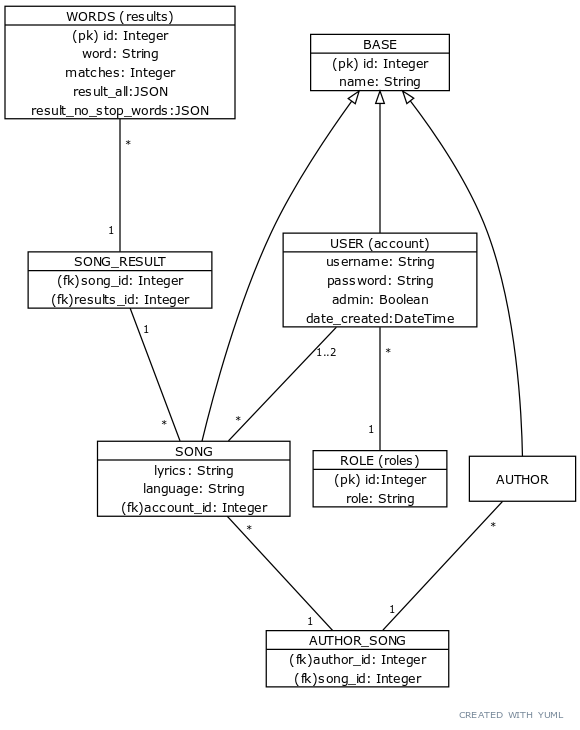
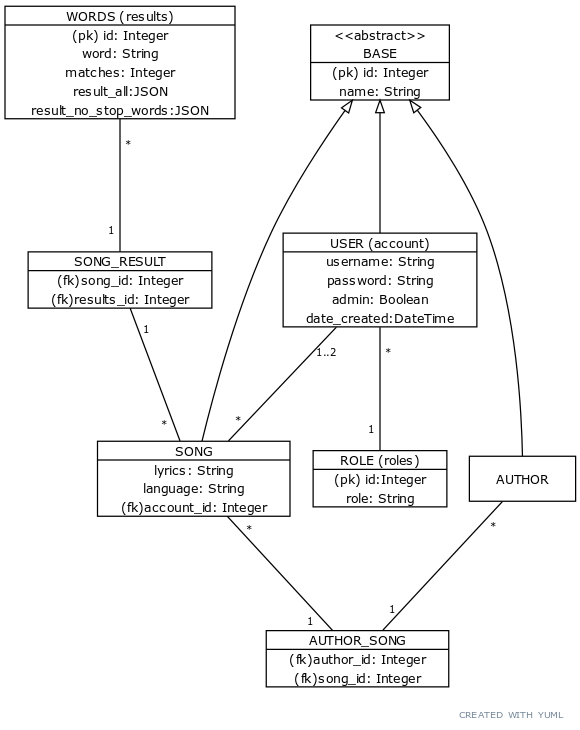
minor fixes, cleanup, and documents updt

Changed region(s): [[0.5276, 0.0301, 0.7759, 0.1507]]

diff --git a/application/templates/info.html b/application/templates/info.html
@@ -13,7 +13,7 @@
 	With statistical textual analysis one can understand better author's
 	character, intentions, idiolect, mood, and many other factors that may help to construct a fuller view of the area of study. Or it can be used for sosiolingvistical study of social media messages to analyze ethnicity, religion, status, gender, level of education, age, etc. Words that we speak or write down tell one thing about us. But the explicitly written textual content doesn't always reveal everything - sometimes we may infer more from reading between the lines, or from statistical analysis.<br><br>
 
-	For example, it has long been a mystery whether famous Old English epic poem <em>Beowulf</em> was composed by a single author or if it was stiched together from many textual sources [<a href="https://www.theguardian.com/books/2019/apr/08/beowulf-old-english-poem-work-one-author-research-suggests" data-toggle="tooltip" data-placement="top" title="Beowulf the work of single author, research suggests">Guardian</a>][<a href="https://news.harvard.edu/gazette/story/2019/04/did-beowulf-have-one-author-researchers-find-clues-in-stylometry/" data-toggle="tooltip" data-placement="top" title="Breaking down 'Beowulf'">The Harvard Gazette</a>].<br><br>
+	For example, it has long been a mystery whether famous Old English epic poem <em>Beowulf</em> was composed by a single author or if it was stiched together from many textual sources [<a href="https://www.theguardian.com/books/2019/apr/08/beowulf-old-english-poem-work-one-author-research-suggests" data-toggle="tooltip" data-placement="top" title="Beowulf the work of single author, research suggests">Guardian</a>][<a href="https://news.harvard.edu/gazette/story/2019/04/did-beowulf-have-one-author-researchers-find-clues-in-stylometry/" data-toggle="tooltip" data-placement="top" title="Breaking down 'Beowulf'">The Harvard Gazette</a>].
 	
 	Recently an academic research team analyzed Beowulf statistically with a computer program and came to a conclusion that Beowulf was written by one author [<a href="https://doi.org/10.1038/s41562-019-0570-1" data-toggle="tooltip" data-placement="top" title="Large-scale quantitative profiling of the Old English verse tradition">Nature</a>]. The program is written in Python and is freely and publicly available at <a href="https://github.com/qcrit" data-toggle="tooltip" data-placement="top" title="Quantitative Criticism Lab">GitHub</a>.<br><br>
 	

diff --git a/application/templates/layout.html b/application/templates/layout.html
@@ -177,7 +177,7 @@
       <div class="container-fluid">
         <form action="/defaults/add" method="POST">
 	      <div>
-            <button class="btn btn-sm btn-primary" type="submit" style="float: right; margin-left: 20px" name="add" id="add" value="add">Add default songs</button>
+            <button class="btn btn-sm btn-primary" type="submit" style="float: right; margin-left: 20px; margin-right: 50px; margin-bottom: 30px;" name="add" id="add" value="add">Add default songs</button>
           </div>
         </form>
       </div>
@@ -187,7 +187,7 @@
         <form action="/defaults/remove" method="POST">
       
 	      <div>
-            <button class="btn btn-sm btn-primary" type="submit" style="float: right; margin-left: 20px" name="remove" id="remove" value="remove">Remove default songs</button>
+            <button class="btn btn-sm btn-primary" type="submit" style="float: right; margin-left: 20px; margin-bottom: 30px;" name="remove" id="remove" value="remove">Remove default songs</button>
           </div>
         </form>
       </div>
@@ -196,7 +196,7 @@
       
       <div class="container-fluid" >
         <form action="/admin" method="POST">
-          <button class="btn btn-sm btn-primary" type="submit" style="float: left;" name="listusers" id="listusers" value="listusers">List users</button>
+          <button class="btn btn-sm btn-primary" type="submit" style="float: left; margin-left: 50px; margin-bottom: 30px;" name="listusers" id="listusers" value="listusers">List users</button>
         </form>
       </div><br><br>
     {% endif %}

diff --git a/application/templates/admin/dashboard.html b/application/templates/admin/dashboard.html
@@ -60,9 +60,11 @@
             <input type="hidden" name="user_id" value="{{ user.id }}"></input>
             <div class="col-auto">
               {% if user.role == "ADMIN" %}
-              <button class="btn btn-sm btn-secondary" type="submit" name="userate" style="background-color: red; width:60px;" value="userate">Admin</button>
+              <button class="btn btn-sm btn-secondary" type="submit" name="userate" style="background-color: red; width:60px;" value="userate">ADMIN</button>
+              {% elif user.role == "GUEST" %}
+              <button class="btn btn-sm btn-secondary" type="submit" name="adminate" style="width:60px;" value="adminate">GUEST</button>
               {% else %}
-              <button class="btn btn-sm btn-secondary" type="submit" name="adminate" style="width:60px;" value="adminate">User</button>
+              <button class="btn btn-sm btn-secondary" type="submit" name="adminate" style="width:60px;" value="adminate">USER</button>
               {% endif %}
             </div>
           </form>

diff --git a/application/admin/views.py b/application/admin/views.py
@@ -78,9 +78,11 @@ def user_adminate(user_id):
 
 	form = CreateForm(request.form)
 	if request.form.get("userate") == "userate":
-		user_qry.first().role = "USER"
+		if user_qry.first().role not in ["ADMIN","GUEST"]:
+			user_qry.first().role = "USER"
 	elif request.form.get("adminate") == "adminate":
-		user_qry.first().role = "ADMIN"
+		if user_qry.first().role not in ["ADMIN","GUEST"]:
+			user_qry.first().role = "ADMIN"
 
 	if request.method == "POST":
 		try:

diff --git a/documentation/kayttoohje.md b/documentation/kayttoohje.md
@@ -1,41 +1,81 @@
 # Käyttöohje
 
-Kun käyttäjä on kirjautunut sisään avautuu kotinäkymä, jossa näkyvät tilastot laulutietokannasta (kielet, laulut, lauluntekijät) ja sanahakutuloksista (top 5). Jälkimmäinen ei näy pääkäyttäjälle. Näkymään pääsee aina takaisin yläpalkin vasemmassa reunassa olevasta kotinappulasta (*LyrFreq HOME*).
+Kun käyttäjä on kirjautunut sisään avautuu kotinäkymä, jossa näkyvät tilastot laulutietokannasta (kielet, laulut, lauluntekijät) ja sanahakutuloksista (top 5).
+
+<img src="https://user-images.githubusercontent.com/46410240/83642637-c3c09d80-a5b7-11ea-8ca1-abd3c83971d0.png" alt="home view">
+
+Jälkimmäinen ei näy pääkäyttäjälle. Näkymään pääsee aina takaisin yläpalkin vasemmassa reunassa olevasta kotinappulasta (*LyrFreq HOME*). Yläpalkin oikeassa reunassa on valkoinen kysymysmerkki, jota klikkaamalla aukeaa info-sivu. Infosta löytyy taustaa ja perustelua sana-analyysiprojektille.
+
+Muuten sovelluksen pitäisi olla melko intuitiivinen. Seuraamalla harvojen nappien tekstejä tai otsikoita tietää mitä voi tehdä.
+
+<img src="https://user-images.githubusercontent.com/46410240/83639232-1186d700-a5b3-11ea-904e-2cf30970b7ad.png" alt="banner">
 
 ## Käyttäjäroolit
 
-Sovelluksessa on pysyvä yläpalkki, josta löytyvät sisään- ja uloskirjautumislinkki sekä rekisteröitymislinkki. Valmiita oletuskäyttäjiä ovat *admin* täysillä oikeuksilla (toisten käyttäjien poisto ja roolin vaihdot) sekä *guest* rajoitetuilla (user) oikeuksilla.
+Sovelluksessa on pysyvä yläpalkki, josta löytyvät sisään- ja uloskirjautumislinkki sekä rekisteröitymislinkki. Käyttäjärooleja on kolme: *ADMIN*, *USER* ja *GUEST*. Valmiita oletuskäyttäjiä ovat *admin* täysillä *ADMIN*-oikeuksilla (toisten käyttäjien poisto ja roolin vaihdot) sekä *guest* rajoitetuilla *GUEST*-oikeuksilla.
 
 Käyttäjä voivat myös luoda oman (user) tilinsä salasanoineen.
 
 Kukin käyttäjä näkee kaikki oletuslaulut sekä itse lisäämänsä laulut. Muiden lisäämiä lauluja ei nähdä. Vain admin voi lisätä yleisesti saatavilla olevia lauluja.
 
-Admin-rooli voi oletuslaulujen lisäämisen ja poistamisen lisäksi tarkastella rekisteröityneitä käyttäjiä sekä poistaa niitä. Admin voi myös asettaa haluamalleen käyttäjälle admin-roolin tai palauttaa sen takaisin peruskäyttäjäksi. Tällä hetkellä oletustunnukset salasanoineen on kovakoodattu helpottamaan asioita esim. katselmuksen suhteen. Loppupalautukseen mennessä kirjautumistiedot poistetaan koodista.
+Admin-rooli voi oletuslaulujen lisäämisen ja poistamisen lisäksi tarkastella rekisteröityneitä käyttäjiä sekä poistaa niitä. Admin voi myös asettaa haluamalleen käyttäjälle admin-roolin tai palauttaa sen takaisin peruskäyttäjäksi.
 
-Ohjelmaan voi siis rekisteröityä luomalla omat tunnukset, mutta helpoin tapa kokeilla sovellusta on kirjautua yhtä nappia painamalla vieras-tilille (guest) jolla on peruskäyttäjän oikeudet.
+Ohjelmaan voi siis rekisteröityä luomalla omat tunnukset, mutta helpoin tapa kokeilla sovellusta on kirjautua yhtä nappia painamalla vieras-tilille (guest) jolla on rajoitetut peruskäyttäjän oikeudet.
+
+<img src="https://user-images.githubusercontent.com/46410240/83640295-9d4d3300-a5b4-11ea-8822-0ec25e4e008a.png" alt="login and create account">
 
 ## Laulut
 
 Yläpalkissa on aluksi estetyt linkit laulujen listaamiseen ja uuden laulun lisäämiseen. Kirjautumisen jälkeen nämä linkit avautuvat toiminnallisiksi.
 
-Laulujen listaus avaa näkymän, jossa laulut ovat listana id:n ja nimen mukaan. Listan yllä on napit listan uudelleenjärjestämiseen aakkosittain nousevasti tai laskeutuvasti sekä ensin kielittäin ja kielen sisällä aakkostetusti.
+Laulujen listaus avaa näkymän, jossa laulut ovat listana id:n ja nimen mukaan.
+
+<img src="https://user-images.githubusercontent.com/46410240/83645729-7c3c1080-a5bb-11ea-9419-b09ab4a4c712.png" alt="song list">
+
+Listan yllä on napit listan uudelleenjärjestämiseen aakkosittain nousevasti tai laskeutuvasti sekä ensin kielittäin ja kielen sisällä aakkostetusti.
 
 Kunkin laulun rivin perässä on kolme värillistä nappia, joista sininen näyttää erikseen ko. laulun lyriikan. Näkymästä pääsee takaisin *Back*-nappulasta. Keltainen nappi avaa ko. laulun editointitilaan, jossa voi muokata laulun nimeä, tekijöitä tai lyriikkatekstiä. Näkymässä voi joko palata takaisin tekemättä muutoksia (*Back*) tai asettaa muutos napista *Submit*.
 
 Punaisesta napista laulu poistetaan tietokannasta.
 
+<img src="https://user-images.githubusercontent.com/46410240/83646803-d689a100-a5bc-11ea-839f-0db63d1e73e2.png" alt="view and edit song">
+
 ## Sanafrekvenssit
 
 Sovelluksessa voi tehdä tällä hetkellä pikahakuja yksittäisistä sanoista erikseen kullakin kolmella kielellä.
 
-Yläpalkkiin tulee kirjautumisen jälkeen näkyviin sanan pikahakukenttä kielivalintanappeineen. Tekstilaatikkoon voi kirjoittaa haettavan sanan, minkä jälkeen painetaan halutun kielen nappia, jolla sanasta tehdään kysely tietokantaan. Tällöin näkymä siirtyy tulossivulle. Mikäli sanaa ei löydy, se ilmoitetaan käyttäjälle. Jos sana löytyy, ilmestyy näkymään hakutulos lukumääränä ja pylväskuvaajana.
+Yläpalkkiin tulee kirjautumisen jälkeen näkyviin sanan pikahakukenttä kielivalintanappeineen.
 
-Näkymään ilmestyy useampi uusi nappi, joiden toiminnot lukevat napeissa. Ylhäällä olevista yhdellä voi suodattaa stopwordsit pois ja toisella tallentaa tuloksen tietokantaan. Alhaalla olevilla napeilla saa avattua sanahaun frekvenssituloksen (top 10) taulukkoina sekä laulujen tekstimassat hakusana merkattuna.
+<img src="https://user-images.githubusercontent.com/46410240/83646995-0e90e400-a5bd-11ea-828b-4caca478be5f.png" alt="word search">
 
-Ohjelma näyttää myös pylväskuvaajan kyseisen kielen laulujen kymmenestä yleisimmästä sanasta. Lisäksi käyttäjä voi nappia painamalla tarkastella kunkin laulun (joista sana löytyi) kohdalla kymmentä yleisintä sanaa taulukkomuodossa tai kyseisiä laulutekstejä, joissa hakusana on merkattu. Tulos esitetään ensin suodattamattomana, eli stopwordsit ovat mukana. Käyttäjä voi tällöin suodattaa tuloksen itse nappia painamalla. Kunkin haun tulokset voi erikseen tallentaa tietokantaan.
+Tekstilaatikkoon voi kirjoittaa haettavan sanan, minkä jälkeen painetaan halutun kielen nappia, jolla sanasta tehdään kysely tietokantaan. Tällöin näkymä siirtyy tulossivulle. Mikäli sanaa ei löydy, se ilmoitetaan käyttäjälle. Jos sana löytyy, ilmestyy näkymään hakutulos lukumääränä ja pylväskuvaajana.
+
+<img src="https://user-images.githubusercontent.com/46410240/83647586-bc9c8e00-a5bd-11ea-8e5f-691c56faa01d.png" alt="word search result">
+
+Näkymään ilmestyy useampi uusi nappi, joiden toiminnot lukevat napeissa. Ylhäällä olevista yhdellä voi suodattaa stopwordsit (turhat sanat) pois ja toisella tallentaa tuloksen tietokantaan.
+
+<img src="https://user-images.githubusercontent.com/46410240/83647830-06857400-a5be-11ea-8fe2-4e5ac62d1a61.png" alt="top buttons">
+
+Alhaalla olevilla napeilla saa avattua sanahaun frekvenssituloksen (top 10) taulukkoina sekä laulujen tekstimassat hakusana merkattuna.
+
+<img src="https://user-images.githubusercontent.com/46410240/83647937-25840600-a5be-11ea-8a5c-7cbc57d32a61.png" alt="bottom buttons">
+
+Ohjelma näyttää frekvenssituloksen (top 10) taulukkona erikseen kullekin laululle, josta sana löytyy.
+
+<img src="https://user-images.githubusercontent.com/46410240/83648100-55330e00-a5be-11ea-8aeb-f0f8f84177a2.png" alt="frequency table">
+
+Lisäksi käyttäjä voi nappia painamalla tarkastella kunkin laulun (joista sana löytyi) kohdalla kymmentä yleisintä sanaa taulukkomuodossa tai kyseisiä laulutekstejä, joissa hakusana on merkattu.
+
+<img src="https://user-images.githubusercontent.com/46410240/83648301-8d3a5100-a5be-11ea-81c2-d14dc1b92877.png" alt="match songs">
+
+Tulos esitetään ensin suodattamattomana, eli stopwordsit ovat mukana. Käyttäjä voi tällöin suodattaa tuloksen itse nappia painamalla. Kunkin haun tulokset voi erikseen tallentaa tietokantaan.
 
 ## Pääkäyttäjä (admin)
 
 Pääkäyttäjän kotinäkymässä on vain laulutietokannan sisältö sekä alhaalla kolme nappia, joista voi listata käyttäjät tai lisätä/poistaa laulut.
 
-Käyttäjien listausnäkymässä näkyvät käyttäjien koko nimet, käyttäjänimet sekä rekisteröitymispäivä. Rivien perässä on myös napit käyttäjän poistamiseen ja käyttäjäroolin vaihtamiseen peruskäyttäjästä pääkäyttäjäksi ja päin vastoin.
+<img src="https://user-images.githubusercontent.com/46410240/83648798-28cbc180-a5bf-11ea-850d-6a5b20f0b5e8.png" alt="admin dashboard">
+
+Käyttäjien listausnäkymässä näkyvät käyttäjien koko nimet, käyttäjänimet sekä rekisteröitymispäivä. Rivien perässä on myös napit käyttäjän poistamiseen ja käyttäjäroolin vaihtamiseen peruskäyttäjästä pääkäyttäjäksi ja päin vastoin. Pääkäyttäjän ja vierastilin rooleja ei voi muuttaa.
+
+<img src="https://user-images.githubusercontent.com/46410240/83651339-0d15ea80-a5c2-11ea-897c-0ed25e5ea4ab.png" alt="admin dashboard users">

diff --git a/documentation/asennusohje.md b/documentation/asennusohje.md
@@ -33,11 +33,19 @@ Esimerkiksi lataus zip-tiedostona ja purettuna tuottaa sisäkkäiset kansiot *Ly
    Nyt sovelluksen pitäisi näkyä selaimen sivulla ja työkansiossa *application*-kansioon on ilmestynyt tyhjä tietokanta *songs.db*.
 6. **TÄRKEÄÄ:**
    Ennen kuin voit kirjautua sovellukseen, tulee tietokantaan asettaa oletuskäyttäjät: pääkäyttäjä *admin* ja vierastili *guest*.
-   - Avaa Windowsin komentoikkuna (*Git Bash* ei välttämättä toimi tässä)
-   - Siirry työkansiossa sijaitsevaan *application*-kansioon ja avaa *Heroku-Postgres -yhteys* komennolla
-     ```
-     heroku pg:psql
-     ```
+   - Avaa Windowsin komentoikkuna (*Git Bash* ei välttämättä toimi tässä). Seuraavat vaiheet riippuvat siitä, julkaistaanko sovellus Herokussa (vaihtoehto A) vai käytetäänkö sitä lokaalisti (vaihtoehto B). Heroku-alustalla käyttö vaatii seuraavaksi PostGres-tietokanta-alustan käyttöä, kun taas lokaali käyttö edellyttää SQLite-alustaa.
+   - Siirry työkansiossa sijaitsevaan *application*-kansioon ja avaa
+     A. *Heroku-Postgres -yhteys* komennolla
+        ```
+        heroku pg:psql
+        ```
+     B. *SQLite*-yhteys ja tietokanta komennoilla
+        ```
+        sqlite3
+        ```
+        ```
+        .open songs.db
+        ```
    - Luo **ensin** pääkäyttäjä. Pääkayttäjän tunnukset (name='admin', username='admin', password='admin') voi vapaasti vaihtaa haluamikseen. Salasanan tulee olla vähintään 4 merkkiä pitkä. Kirjoita komentoikkunaan komento
        ```
        INSERT INTO account (name, username, password, role, date_created) VALUES ('admin', 'admin', 'admin', 'ADMIN', CURRENT_TIMESTAMP);
@@ -62,7 +70,11 @@ Esimerkiksi lataus zip-tiedostona ja purettuna tuottaa sisäkkäiset kansiot *Ly
      ```
      INSERT INTO account (name, username, password, role, date_created) VALUES ('vierailija', 'vieras', '12345', 'GUEST', CURRENT_TIMESTAMP);
      ```
-   - Voit nyt sulkea PostGres-yhteyden komennolla ```\q``` ja vastaamalla ```N``` kysymykseen *Terminate batch job (Y/N)*.
+   - Voit nyt sulkea
+     A. PostGres-yhteyden komennolla
+        ```\q```
+        ja vastaamalla ```N``` kysymykseen *Terminate batch job (Y/N)*.
+     B. SQLite-yhteyden painamalla yhtaikaa ```ctrl+c```
 
 Nyt sovelluksen pitäisi olla käyttökunnossa ja voit kirjautua sisään äsken luoduilla tunnuksilla tai luoda uuden tunnuksen. Huomaa, että sovellukseen on liitetty 18 kappaletta oletuslauluja, jotka vain pääkäyttäjä voi asentaa tietokantaan.
 

diff --git a/documentation/tietokanta.md b/documentation/tietokanta.md
@@ -79,7 +79,7 @@
 
 ## Tietokantakaavio
 
-<img src="https://user-images.githubusercontent.com/46410240/83597715-aa483300-a570-11ea-81d0-4480b521c5b3.png" alt="database diagram">
+<img src="https://user-images.githubusercontent.com/46410240/83637572-8573b000-a5b0-11ea-9f0a-27fa783a5769.png" alt="database diagram">
 
 ## Tietokantakyselyjä
 
